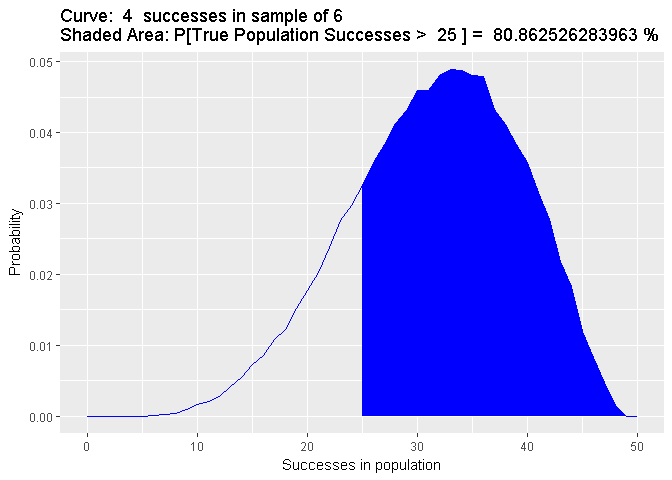
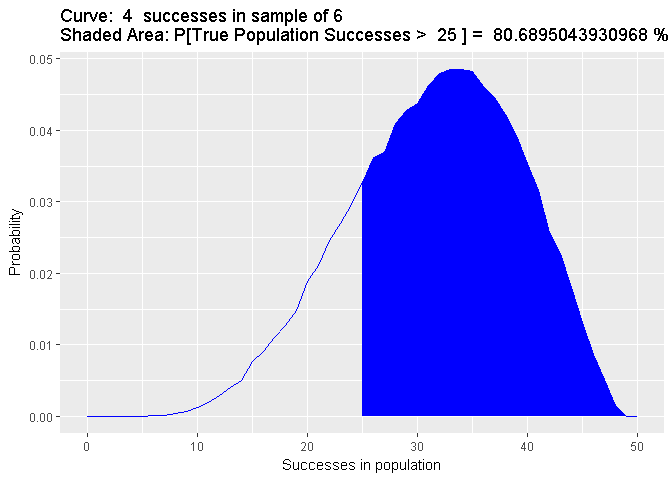
sample pdf plot

diff --git a/hypergeometric_MC_ntbk.md b/hypergeometric_MC_ntbk.md
@@ -83,37 +83,37 @@ print(aggregated_data)
 ```
 
     ##       0    1    2    3    4    5    6    7    8    9   10   11   12   13
-    ## 0 10000 8786 7708 6782 5899 5165 4423 3949 3334 2874 2395 2023 1767 1477
-    ## 1     0 1214 2184 2852 3444 3799 4102 4076 4332 4246 4162 3943 3727 3521
-    ## 2     0    0  108  362  629  948 1293 1673 1878 2228 2555 2913 3020 3261
-    ## 3     0    0    0    4   28   87  173  285  421  577  759  955 1255 1410
-    ## 4     0    0    0    0    0    1    8   17   33   70  122  153  209  304
-    ## 5     0    0    0    0    0    0    1    0    2    5    7   13   21   27
-    ## 6     0    0    0    0    0    0    0    0    0    0    0    0    1    0
+    ## 0 10000 8796 7781 6726 5968 5159 4486 3818 3310 2768 2406 1970 1781 1414
+    ## 1     0 1204 2091 2956 3376 3875 4071 4297 4308 4280 4163 4048 3773 3620
+    ## 2     0    0  128  305  621  891 1264 1603 1948 2335 2556 2861 3028 3197
+    ## 3     0    0    0   13   35   72  173  269  396  561  777  963 1183 1442
+    ## 4     0    0    0    0    0    3    6   13   35   55   91  141  217  300
+    ## 5     0    0    0    0    0    0    0    0    3    1    7   17   18   27
+    ## 6     0    0    0    0    0    0    0    0    0    0    0    0    0    0
     ##     14   15   16   17   18   19   20   21   22   23   24   25   26   27
-    ## 0 1239 1012  855  719  583  471  358  316  235  201  142  119   84   53
-    ## 1 3324 3049 2828 2543 2295 1995 1750 1666 1358 1150 1059  851  656  531
-    ## 2 3364 3478 3505 3465 3465 3395 3324 3135 2996 2855 2597 2403 2167 1994
-    ## 3 1622 1857 2097 2346 2586 2812 2940 2969 3154 3156 3251 3317 3375 3249
-    ## 4  402  532  624  786  890 1106 1287 1479 1731 2007 2164 2367 2604 2788
-    ## 5   48   71   85  137  169  200  311  397  473  579  707  836  977 1170
-    ## 6    1    1    6    4   12   21   30   38   53   52   80  107  137  215
+    ## 0 1207 1021  841  721  568  472  357  284  230  169  148  117   79   68
+    ## 1 3316 3004 2788 2530 2342 2011 1795 1591 1324 1182  976  849  697  628
+    ## 2 3420 3438 3511 3449 3508 3414 3256 3095 3011 2847 2589 2392 2152 1959
+    ## 3 1631 1916 2094 2349 2486 2758 2886 3093 3159 3188 3364 3326 3255 3239
+    ## 4  372  557  669  806  929 1084 1379 1542 1798 1969 2166 2393 2652 2699
+    ## 5   52   58   92  141  150  245  291  359  437  582  678  830 1029 1216
+    ## 6    2    6    5    4   17   16   36   36   41   63   79   93  136  191
     ##     28   29   30   31   32   33   34   35   36   37   38   39   40   41
-    ## 0   44   35   28   10   10    9    8    2    0    0    0    0    0    0
-    ## 1  493  375  281  220  177  127   99   66   58   28   15   10    8    4
-    ## 2 1726 1544 1301 1193  880  767  647  489  386  305  237  163   83   58
-    ## 3 3096 3075 2792 2811 2616 2325 2055 1813 1588 1425 1181  928  726  551
-    ## 4 3001 3140 3337 3344 3491 3557 3545 3491 3482 3148 2993 2787 2598 2299
-    ## 5 1416 1544 1852 1939 2249 2557 2877 3092 3292 3580 3798 3982 4151 4218
-    ## 6  224  287  409  483  577  658  769 1047 1194 1514 1776 2130 2434 2870
+    ## 0   41   28   29   13   16    5    6    5    0    1    0    1    0    0
+    ## 1  506  369  305  226  180  143   86   47   41   28   26   10    9    2
+    ## 2 1703 1528 1285 1141  949  795  647  520  387  306  236  155  100   71
+    ## 3 3185 3044 3006 2791 2533 2321 2103 1883 1579 1409 1190  917  777  518
+    ## 4 2994 3134 3202 3384 3511 3546 3549 3524 3378 3265 3092 2876 2583 2313
+    ## 5 1315 1610 1781 2000 2238 2477 2766 3010 3380 3548 3737 3990 4191 4215
+    ## 6  256  287  392  445  573  713  843 1011 1235 1443 1719 2051 2340 2881
     ##     42   43   44   45   46   47   48   49    50
     ## 0    0    0    0    0    0    0    0    0     0
-    ## 1    4    0    0    0    0    0    0    0     0
-    ## 2   42   20    9    3    0    0    0    0     0
-    ## 3  407  266  182  100   29   12    0    0     0
-    ## 4 2015 1591 1335  869  600  345  111    0     0
-    ## 5 4352 4305 4080 3826 3464 2942 2195 1154     0
-    ## 6 3180 3818 4394 5202 5907 6701 7694 8846 10000
+    ## 1    1    1    0    0    0    0    0    0     0
+    ## 2   35   13    6    2    0    0    0    0     0
+    ## 3  400  294  153   98   45   12    0    0     0
+    ## 4 1880 1665 1323  960  635  380  113    0     0
+    ## 5 4414 4256 4094 3817 3459 2930 2125 1212     0
+    ## 6 3270 3771 4424 5123 5861 6678 7762 8788 10000
 
 Let's create some plots to help visualize the data First we write a function to plot the the distribution of the observed successes in a sample over the true number of successes in the population.
 
@@ -197,7 +197,7 @@ right_tail_plot <- function(df, sample_successes, pop_successes){
 }
 ```
 
-We then call the function based on the parameters we want to see. Here we are looking at 4 successes in the sample size of 6 where we want to know the probability that the true number of successes in the population is greater than 25. For a sample size or 6 with 4 successes, the probability that the true number of successes in the population of 50 is greater than 25 is 80.8%
+We then call the function based on the parameters we want to see. Here we are looking at 4 successes in the sample size of 6 where we want to know the probability that the true number of successes in the population is greater than 25. For a sample size or 6 with 4 successes, the probability that the true number of successes in the population of 50 is greater than 25 is roughly 80%
 
 ``` r
 ##  parameters for plotting function
